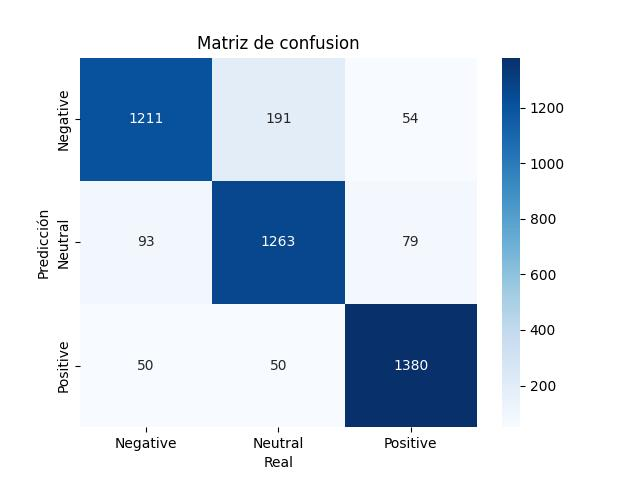
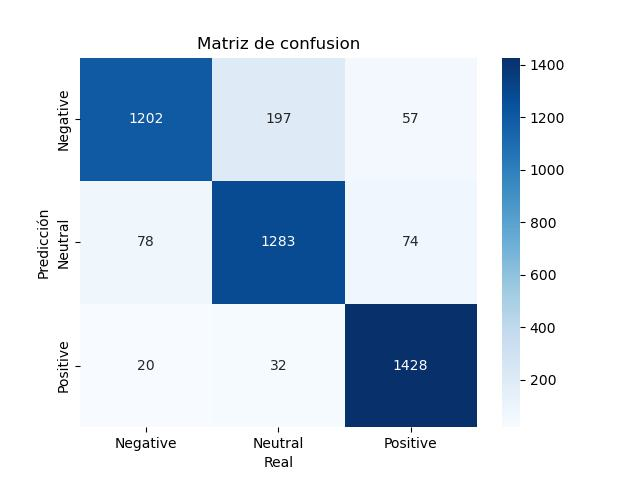
diferentes tipos de balanceo en logistic regression

diff --git a/logisticRegression.py b/logisticRegression.py
@@ -13,6 +13,9 @@ from sklearn.pipeline import make_pipeline
 from sklearn.datasets import fetch_20newsgroups
 from imblearn.over_sampling import SMOTE 
 from sklearn.linear_model import LogisticRegression
+from imblearn.under_sampling import TomekLinks
+from imblearn.under_sampling import RandomUnderSampler
+from imblearn.over_sampling import RandomOverSampler
 
 
 
@@ -23,18 +26,23 @@ df = pd.read_csv("datosProcesados.csv")
 # Sacamos X y los labels
 X= df['text']
 y= df['__target__']
-smote = SMOTE()
+#smote = SMOTE()
 #X,y = smote.fit_resample(X,y)
-
+#(PEORES RESULTADOS)tomeklinks elimina los ejemplos cercanos entre las clases minoritarias y mayoritarias, con el objetivo de aumentar la separación entre las clases
+#tomek_links = TomekLinks()
+#(HORRIBLES RESULTADOS) Este método elimina aleatoriamente ejemplos de la clase mayoritaria para equilibrar el conjunto de datos.
+#undersampler = RandomUnderSampler(random_state=42)
+oversampler = RandomOverSampler(random_state=42)
 
 # Vectorizamos en tf_idf todo
 tfidf_vectorizer = TfidfVectorizer() 
 tfidf_X = tfidf_vectorizer.fit_transform(X) # Se aplica tf idf a todos los datos
 
 # Utilizamos SMOTE para balancear los datos. De esta forma hemos conseguido un 0.2 mas en accuracy
-X,y = smote.fit_resample(tfidf_X,y)
-
-
+#X,y = smote.fit_resample(tfidf_X,y)
+#X, y = tomek_links.fit_resample(tfidf_X, y)
+#X, y = undersampler.fit_resample(tfidf_X, y)
+X, y = oversampler.fit_resample(tfidf_X, y)
 X_train, X_test, y_train, y_test = train_test_split(X, y, test_size= 0.2, random_state= 26)
 
 
